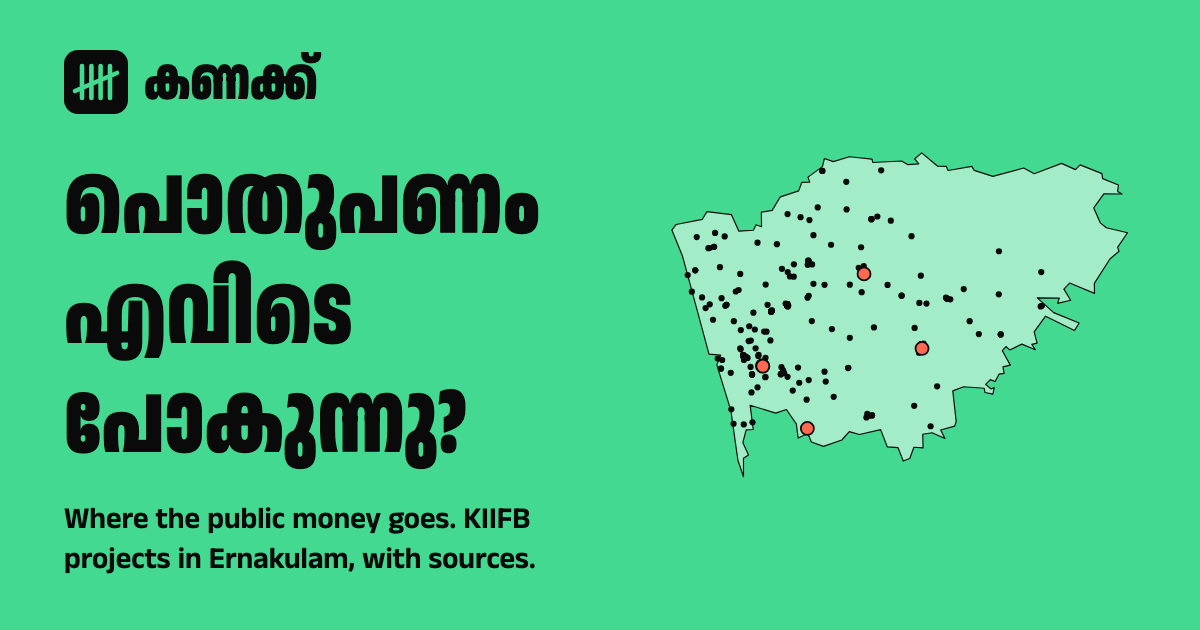
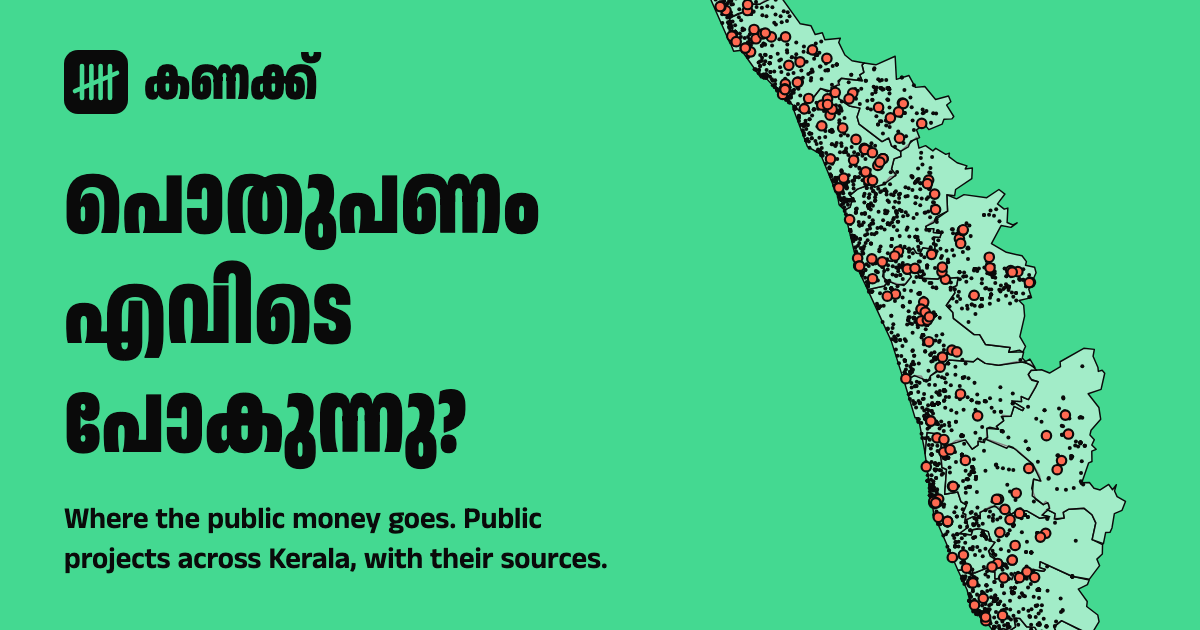
Accessibility pass, CI workflow, statewide share image and docs

Changed region(s): [[0.555, 0.0, 0.9558, 1.0], [0.1542, 0.8746, 0.5242, 0.9048], [0.37, 0.7841, 0.4625, 0.8444]]

diff --git a/crates/worker/src/app.css b/crates/worker/src/app.css
@@ -29,7 +29,10 @@ h1, h2, h3, h4, p, dl, dd, ul, ol, figure { margin: 0; padding: 0; }
 ul, ol { list-style: none; }
 a { color: inherit; text-underline-offset: 0.18em; text-decoration-thickness: 1px; }
 a:hover { text-decoration-thickness: 2px; }
-:focus-visible { outline: 3px solid var(--blue); outline-offset: 2px; border-radius: 2px; }
+:focus-visible { outline: 3px solid var(--ink); outline-offset: 2px; border-radius: 2px; }
+.stat.k:focus-visible, .btn:not(.ghost):focus-visible { outline-color: var(--blue); }
+.scroll:focus-visible { outline-offset: 0; }
+.foot a, .key a, .eyebrow a, .crumbs a, .prose a, .note a { display: inline-block; min-height: 24px; }
 b, strong { font-weight: 600; }
 .i { width: 1.25em; height: 1.25em; flex: none; vertical-align: -0.22em; }
 .wrap { max-width: 74rem; margin-inline: auto; padding-inline: clamp(16px, 4vw, 40px); }

diff --git a/crates/worker/src/views/pages.rs b/crates/worker/src/views/pages.rs
@@ -58,7 +58,12 @@ pub fn methodology(lang: Lang, origin: &str, last_checked: Option<&str>) -> Stri
                 div.rules {
                     @for kind in FlagKind::ALL {
                         div {
-                            a.badge.flag href=(format!("{}/projects?flag={}", lang.prefix(), kind.as_str())) { (icon(icons::FLAG)) (flag_label(lang, kind)) }
+                            @let href = if kind == FlagKind::PaidAboveApproval {
+                                format!("{}/funding?flag=1", lang.prefix())
+                            } else {
+                                format!("{}/projects?flag={}", lang.prefix(), kind.as_str())
+                            };
+                            a.badge.flag href=(href) { (icon(icons::FLAG)) (flag_label(lang, kind)) }
                             p { (flag_rule(lang, kind)) }
                         }
                     }
@@ -69,9 +74,9 @@ pub fn methodology(lang: Lang, origin: &str, last_checked: Option<&str>) -> Stri
                     "കിഫ്ബിയുടെ സ്ഥിതിവിവരങ്ങൾ (“WBS Base One Approved” പോലുള്ളവ) അവരുടെ ആഭ്യന്തര പ്രവർത്തനക്രമത്തിലെ പദങ്ങളാണ്. വായിക്കാൻ എളുപ്പത്തിന് ഞങ്ങൾ അവയെ താഴെയുള്ള ഘട്ടങ്ങളാക്കി തിരിക്കുന്നു. ഈ തരംതിരിവ് ഞങ്ങളുടേതാണ്; കിഫ്ബിയുടെ യഥാർത്ഥ പദം ഓരോ പദ്ധതിയുടെയും താളിൽ കാണിക്കുന്നു.",
                     "KIIFB's status labels, such as “WBS Base One Approved”, are terms from its internal workflow. To make them readable we group them into the stages below. The grouping is ours; each project page also shows KIIFB's original label.",
                 )) }
-                div.scroll {
+                div.scroll tabindex="0" role="region" aria-label=(lang.pick("പട്ടിക: വശങ്ങളിലേക്ക് നീക്കാം", "Table, scrolls sideways")) {
                     table {
-                        thead { tr { th { (lang.pick("ഘട്ടം", "Stage")) } th { (lang.pick("കിഫ്ബിയുടെ പദങ്ങൾ", "KIIFB labels containing")) } } }
+                        thead { tr { th scope="col" { (lang.pick("ഘട്ടം", "Stage")) } th scope="col" { (lang.pick("കിഫ്ബിയുടെ പദങ്ങൾ", "KIIFB labels containing")) } } }
                         tbody {
                             @for stage in Stage::ALL {
                                 tr {
@@ -230,6 +235,10 @@ pub fn map(lang: Lang, origin: &str, last_checked: Option<&str>) -> String {
                 span { i.dot {} (t.map_legend_clear) }
                 a.more href=(format!("{}/projects", lang.prefix())) { (lang.pick("പട്ടികയായി കാണുക", "See as a list")) (icon(icons::ARROW_RIGHT)) }
             }
+            p.small.muted { (lang.pick(
+                "ഭൂപടത്തിലെ കുത്തുകൾ തുറക്കാൻ മൗസോ സ്പർശമോ വേണം. കീബോർഡോ സ്ക്രീൻ റീഡറോ ഉപയോഗിക്കുന്നവർക്ക് ഇതേ പദ്ധതികളെല്ലാം പട്ടികയിൽ ലഭ്യമാണ്.",
+                "Opening a pin on the map needs a mouse or touch. If you use a keyboard or a screen reader, every project shown here is also in the list.",
+            )) }
         }
     };
     let mut p = page(lang, t.map_title, t.map_intro, "/map", origin, Nav::Map, last_checked);
@@ -256,12 +265,12 @@ pub fn status(lang: Lang, origin: &str, status: &Status, now_ms: i64) -> String 
         div.wrap {
             section.sec {
                 h2.h { (lang.pick("ഉറവിടങ്ങൾ", "Sources")) }
-                div.scroll {
+                div.scroll tabindex="0" role="region" aria-label=(lang.pick("പട്ടിക: വശങ്ങളിലേക്ക് നീക്കാം", "Table, scrolls sideways")) {
                     table {
                         thead { tr {
-                            th { (lang.pick("ഉറവിടം", "Source")) }
-                            th { (lang.pick("അവസാനം വിജയകരമായി വായിച്ചത്", "Last good read")) }
-                            th { (lang.pick("നില", "State")) }
+                            th scope="col" { (lang.pick("ഉറവിടം", "Source")) }
+                            th scope="col" { (lang.pick("അവസാനം വിജയകരമായി വായിച്ചത്", "Last good read")) }
+                            th scope="col" { (lang.pick("നില", "State")) }
                         } }
                         tbody {
                             @for source in &status.sources {
@@ -300,12 +309,12 @@ pub fn status(lang: Lang, origin: &str, status: &Status, now_ms: i64) -> String 
             @if !status.runs.is_empty() {
                 section.sec {
                     h2.h { (lang.pick("സമീപകാല ശേഖരണങ്ങൾ", "Recent runs")) }
-                    div.scroll {
+                    div.scroll tabindex="0" role="region" aria-label=(lang.pick("പട്ടിക: വശങ്ങളിലേക്ക് നീക്കാം", "Table, scrolls sideways")) {
                         table {
                             thead { tr {
-                                th { (lang.pick("തീയതി", "Date")) }
-                                th { (lang.pick("ഉറവിടം", "Source")) }
-                                th { (lang.pick("ഫലം", "Result")) }
+                                th scope="col" { (lang.pick("തീയതി", "Date")) }
+                                th scope="col" { (lang.pick("ഉറവിടം", "Source")) }
+                                th scope="col" { (lang.pick("ഫലം", "Result")) }
                             } }
                             tbody {
                                 @for run in &status.runs {
@@ -333,12 +342,12 @@ pub fn status(lang: Lang, origin: &str, status: &Status, now_ms: i64) -> String 
                 @if status.views.is_empty() {
                     p.muted { (lang.pick("ഇതുവരെ കണക്കില്ല.", "Nothing counted yet.")) }
                 } @else {
-                    div.scroll {
+                    div.scroll tabindex="0" role="region" aria-label=(lang.pick("പട്ടിക: വശങ്ങളിലേക്ക് നീക്കാം", "Table, scrolls sideways")) {
                         table {
                             thead { tr {
-                                th { (lang.pick("താൾ", "Page")) }
-                                th { (lang.pick("കഴിഞ്ഞ 7 ദിവസം", "Last 7 days")) }
-                                th { (lang.pick("കഴിഞ്ഞ 30 ദിവസം", "Last 30 days")) }
+                                th scope="col" { (lang.pick("താൾ", "Page")) }
+                                th scope="col" { (lang.pick("കഴിഞ്ഞ 7 ദിവസം", "Last 7 days")) }
+                                th scope="col" { (lang.pick("കഴിഞ്ഞ 30 ദിവസം", "Last 30 days")) }
                             } }
                             tbody {
                                 @for view in &status.views {

diff --git a/scripts/brand.py b/scripts/brand.py
@@ -13,9 +13,11 @@ CHROME = "/Applications/Google Chrome.app/Contents/MacOS/Google Chrome"
 BASE = sys.argv[1] if len(sys.argv) > 1 else "http://localhost:8787"
 
 district = (ROOT / "crates/worker/src/district.rs").read_text()
-num = lambda name: float(re.search(rf"{name}: f64 = ([\d.]+);", district).group(1))
-WIDTH, HEIGHT, MIN_LNG, MAX_LAT, PAD, KX, KY = (num(n) for n in ["WIDTH", "HEIGHT", "MIN_LNG", "MAX_LAT", "PAD", "KX", "KY"])
-OUTLINE = re.search(r'OUTLINE: &str = "([^"]+)"', district).group(1)
+# The whole state, in the box district.rs draws it in.
+state = re.search(r"pub const STATE: Frame = Frame \{ width: ([\d.]+), height: ([\d.]+), min_lng: ([\d.]+), max_lat: ([\d.]+), kx: ([\d.]+), ky: ([\d.]+) \}", district)
+WIDTH, HEIGHT, MIN_LNG, MAX_LAT, KX, KY = (float(v) for v in state.groups())
+PAD = float(re.search(r"const PAD: f64 = ([\d.]+);", district).group(1))
+OUTLINES = "".join(f'<path class="land" d="{d}"/>' for d in re.findall(r'in_state: "([^"]+)"', district))
 
 features = json.load(urllib.request.urlopen(f"{BASE}/api/v1/projects.geojson"))["features"]
 dots = []
@@ -24,7 +26,7 @@ for f in sorted(features, key=lambda f: f["properties"]["flagged"]):
     x, y = PAD + (lng - MIN_LNG) * KX, PAD + (MAX_LAT - lat) * KY
     if 0 <= x <= WIDTH and 0 <= y <= HEIGHT:
         flagged = f["properties"]["flagged"]
-        dots.append(f'<circle cx="{x:.1f}" cy="{y:.1f}" r="{4.4 if flagged else 2.1}" class="{"f" if flagged else ""}"/>')
+        dots.append(f'<circle cx="{x:.1f}" cy="{y:.1f}" r="{2.6 if flagged else 1.1}" class="{"f" if flagged else ""}"/>')
 
 MARK = '<path d="M9 8v16M13.7 8v16M18.3 8v16M23 8v16M5.5 20.5l21-9" fill="none" stroke="#0a0a0a" stroke-width="2.3" stroke-linecap="round"/>'
 FONTS = f"""
@@ -47,9 +49,9 @@ circle {{ fill: #0a0a0a; }} .f {{ fill: #ff6a51; stroke: #0a0a0a; stroke-width: 
 <div>
   <div class="brand"><svg viewBox="0 0 32 32"><rect width="32" height="32" rx="7" fill="#0a0a0a"/>{MARK.replace('#0a0a0a', '#44d991')}</svg>കണക്ക്</div>
   <h1>പൊതുപണം എവിടെ പോകുന്നു?</h1>
-  <p>Where the public money goes. KIIFB projects in Ernakulam, with sources.</p>
+  <p>Where the public money goes. Public projects across Kerala, with their sources.</p>
 </div>
-<svg viewBox="0 0 {WIDTH} {HEIGHT}"><path class="land" d="{OUTLINE}"/>{''.join(dots)}</svg>
+<svg viewBox="0 0 {WIDTH} {HEIGHT}">{OUTLINES}{''.join(dots)}</svg>
 """
 
 def icon(padding):

diff --git a/crates/worker/src/views/funding.rs b/crates/worker/src/views/funding.rs
@@ -481,9 +481,9 @@ pub fn detail(lang: Lang, origin: &str, project: &FundedProject, data: &FundingP
             @if !data.observations.is_empty() {
                 section.sec {
                     h2.h { (t.changes) }
-                    div.scroll {
+                    div.scroll tabindex="0" role="region" aria-label=(lang.pick("പട്ടിക: വശങ്ങളിലേക്ക് നീക്കാം", "Table, scrolls sideways")) {
                         table {
-                            thead { tr { th { (t.retrieved) } th { (lang.pick("വിവരം", "Field")) } th { (lang.pick("മുൻപ് → ഇപ്പോൾ", "Before → after")) } } }
+                            thead { tr { th scope="col" { (t.retrieved) } th scope="col" { (lang.pick("വിവരം", "Field")) } th scope="col" { (lang.pick("മുൻപ് → ഇപ്പോൾ", "Before → after")) } } }
                             tbody {
                                 @for o in &data.observations {
                                     tr {

diff --git a/crates/worker/src/views/project.rs b/crates/worker/src/views/project.rs
@@ -293,9 +293,9 @@ pub fn render(lang: Lang, origin: &str, project: &Project, data: &ProjectPage, t
             @if !data.observations.is_empty() {
                 section.sec {
                     h2.h { (t.changes) }
-                    div.scroll {
+                    div.scroll tabindex="0" role="region" aria-label=(lang.pick("പട്ടിക: വശങ്ങളിലേക്ക് നീക്കാം", "Table, scrolls sideways")) {
                         table {
-                            thead { tr { th { (t.retrieved) } th { (lang.pick("വിവരം", "Field")) } th { (lang.pick("മുൻപ് → ഇപ്പോൾ", "Before → after")) } } }
+                            thead { tr { th scope="col" { (t.retrieved) } th scope="col" { (lang.pick("വിവരം", "Field")) } th scope="col" { (lang.pick("മുൻപ് → ഇപ്പോൾ", "Before → after")) } } }
                             tbody {
                                 @for o in &data.observations {
                                     tr {

diff --git a/docs/design.md b/docs/design.md
@@ -225,3 +225,48 @@ A third source: the Kerala PWD defect-liability (DLP) list, `pwd.kerala.gov.in/I
 | No top-level nav item | Five already fill a phone's width; the page is linked from the front page and footer |
 
 **Pages:** `/liability` (filters by wing and contractor, soonest to end first), a block on the front page, `/api/v1/liability` and `/api/v1/liability.csv`.
+
+## Build 5: a correction, the whole state, and the rest of the buildable list (30 Sep 2026)
+
+### A correction to build 3
+
+KIIFB's list states "Payment Released" per project. For every Ernakulam project with works, that figure is an exact whole multiple of what the works add up to: 1 for most, and 2, 3, 4, 6 or 14 for projects filed under several districts. The list counts the same payments once per district. Build 3 showed the listed figure, so the total read ₹9,567 crore where the works add up to ₹5,608 crore.
+
+Paid is now the sum of the works' paid amounts. The listed figure is kept (`released_listed`) and shown next to it on a project's page wherever the two differ, with the multiple. A project whose work table has not been read yet still shows the listed figure, marked provisional. Changes in the listed figure are no longer recorded as changes.
+
+### What was added
+
+| Feature | Where | Notes |
+|---|---|---|
+| Run log, alerts, health | `runs.rs`, `/status`, `/api/v1/status` | Optional `ALERT_WEBHOOK` secret; 503 when a source is stale |
+| Visit counts | `page_views` table | Per kind of page, language and day; robots skipped by User-Agent |
+| Whole state | `PILOT_DISTRICT = "*"` | 3,622 dashboard projects, 1,404 status projects, 2,475 PWD works |
+| District pages | `/d/{district}` | Same template as the front page, narrowed |
+| Contractors | `/contractors`, `/c/{key}` | One key per contractor across the sources (`entity.rs`) |
+| Agencies | `/agencies`, `/a/{key}` | Abbreviations resolved to full names |
+| Rule version 2 | `flags.rs` | Overdue ignores ended works; new "paid above approval" on status-page works |
+| Malayalam search | `search.rs` | Dictionary of places and project words, spelled-out fallback |
+| Share images | `og.rs`, `/og/...png` | Drawn in the Worker with the site's fonts; Latin text only |
+| Offline | `assets/sw.js` | Opened pages are kept; the first script on ordinary pages |
+| Accessibility pass | templates, `app.css` | See below |
+| CI | `.github/workflows/ci.yml` | Tests and a wasm compile check |
+
+### Decisions
+
+| Decision | Why |
+|---|---|
+| A project with no district from KIIFB is "district not stated" | 393 pins carry no district. Guessing from coordinates against simplified borders would misplace border cases |
+| The state's front page has district tiles, not 140 constituency tiles | Constituencies appear once a district is chosen |
+| Thousands of map dots are two SVG paths of zero-length strokes | One element per dot made the front page three times larger |
+| The status page is read district by district (14 requests) | It is the only way to learn which districts a project is filed under |
+| Work tables are read 150 a night | A first statewide load is about 1,400 requests; spreading it over ten nights is kinder to KIIFB than one burst |
+| A PWD work's district is its office's district | PWD states no location; a division can cover neighbouring districts, and the page says so |
+| Ordinary pages now load one script | Offline support needs a service worker, and that needs registering |
+| Share images carry English text only | Malayalam needs a text shaper the Worker does not have; KIIFB's titles are English |
+| Dashboard contractor names are re-spaced only where capitals show the joins | KIIFB runs names together; an all-capital name has no joins to find |
+
+### Accessibility pass
+
+Checked on every kind of page by script: one `h1`, no skipped heading levels, every link, button and form control named, no duplicate ids, labelled landmarks, language set. Fixed: the focus ring was blue and vanished on the green hero (now ink, blue on black surfaces); sideways-scrolling tables can be reached and scrolled by keyboard and have column headers marked; small link targets raised to 24 px; the map page says its pins need a pointer and that the list has the same projects. Contrast of every text and surface pair in use is 6:1 or better.
+
+Not done: a pass with a real screen reader, and a keyboard-operable map.

diff --git a/README.md b/README.md
@@ -1,6 +1,6 @@
 # Kanakku (കണക്ക്)
 
-Public project accountability for Kerala. This first build covers KIIFB projects in Ernakulam district: what was sanctioned, who got the contract, what has been paid, how far the work has come, and a copy of the source page behind every figure.
+Public project accountability for Kerala: what was sanctioned, who got the contract, what has been paid, how far the work has come. It covers KIIFB projects in all 14 districts from two KIIFB sources, and the Public Works Department's list of finished works still under contractor liability. Every number links to a stored copy of its source.
 
 The product spec is in [kanakku-spec.md](kanakku-spec.md). The design of this build is in [docs/design.md](docs/design.md).
 
@@ -45,7 +45,10 @@ These are committed, so you only need the scripts when something changes.
 | `scripts/district.py` | `crates/worker/src/district.rs`, the district outline from OpenStreetMap | network |
 | `scripts/brand.py` | share image and app icons in `assets/` | Google Chrome, running dev server |
 | `scripts/vendor.sh` | map libraries in `assets/vendor/` | `npm install` |
-| `scripts/basemap.sh` | `tiles/ernakulam.pmtiles` | `brew install pmtiles` |
+| `scripts/basemap.sh` | `tiles/kerala.pmtiles` | `brew install pmtiles` |
+| `scripts/districts.py` | `crates/worker/src/district.rs` (district outlines) | Python 3 |
+| `scripts/constituencies.py` | `crates/core/src/constituencies.rs` | Python 3, a saved dashboard page |
+| `scripts/ogfonts.py` | `crates/worker/fonts/*.ttf` (share-image fonts) | `pip install fonttools brotli` |
 
 `scripts/shot.sh URL out.png WIDTH HEIGHT` takes a screenshot with headless Chrome. It cannot go narrower than about 500 px.
 
@@ -58,7 +61,7 @@ cargo test -p kanakku-core
 To see what an ingest would store from a saved copy of the dashboard:
 
 ```bash
-cargo run -p kanakku-core --release --example inspect -- page.html Ernakulam 2026-09-30
+cargo run -p kanakku-core --release --example inspect -- page.html '*' 2026-09-30
 ```
 
 ## Ingest
@@ -83,3 +86,23 @@ If KIIFB blocks Cloudflare's addresses, fetch the page from a machine in India a
 curl -A "KanakkuBot/0.1" https://gis.kiifb.org/ -o page.html
 curl -X POST -H "Authorization: Bearer $INGEST_TOKEN" --data-binary @page.html https://<your-domain>/admin/ingest
 ```
+
+## Scope, alerts and health
+
+- `PILOT_DISTRICT` in `wrangler.toml` is `*` for the whole state, or one district's name.
+- Every ingest run is logged. `/status` shows the last good read of each source; `/api/v1/status` answers 503 when a source is stale, so any uptime monitor can watch it.
+- To be told when a run fails, set a webhook (Slack, Discord or similar): `npx wrangler secret put ALERT_WEBHOOK`.
+- Visit counts are per kind of page, language and day. No cookies, addresses or identifiers.
+
+## Pages
+
+| Path | What |
+|---|---|
+| `/`, `/d/{district}` | Front page for the state and for a district |
+| `/projects`, `/p/{code}` | Dashboard projects; search works in Malayalam |
+| `/funding`, `/f/{ref}` | What KIIFB approved and what has been paid |
+| `/liability` | Finished PWD works still under contractor liability |
+| `/contractors`, `/c/{key}` | Contractors across the sources |
+| `/agencies`, `/a/{key}` | Implementing agencies |
+| `/og/p/{code}.png`, `/og/f/{ref}.png` | Share images, drawn on request |
+| `/status`, `/methodology`, `/data`, `/map` | Health, method, downloads, map |
